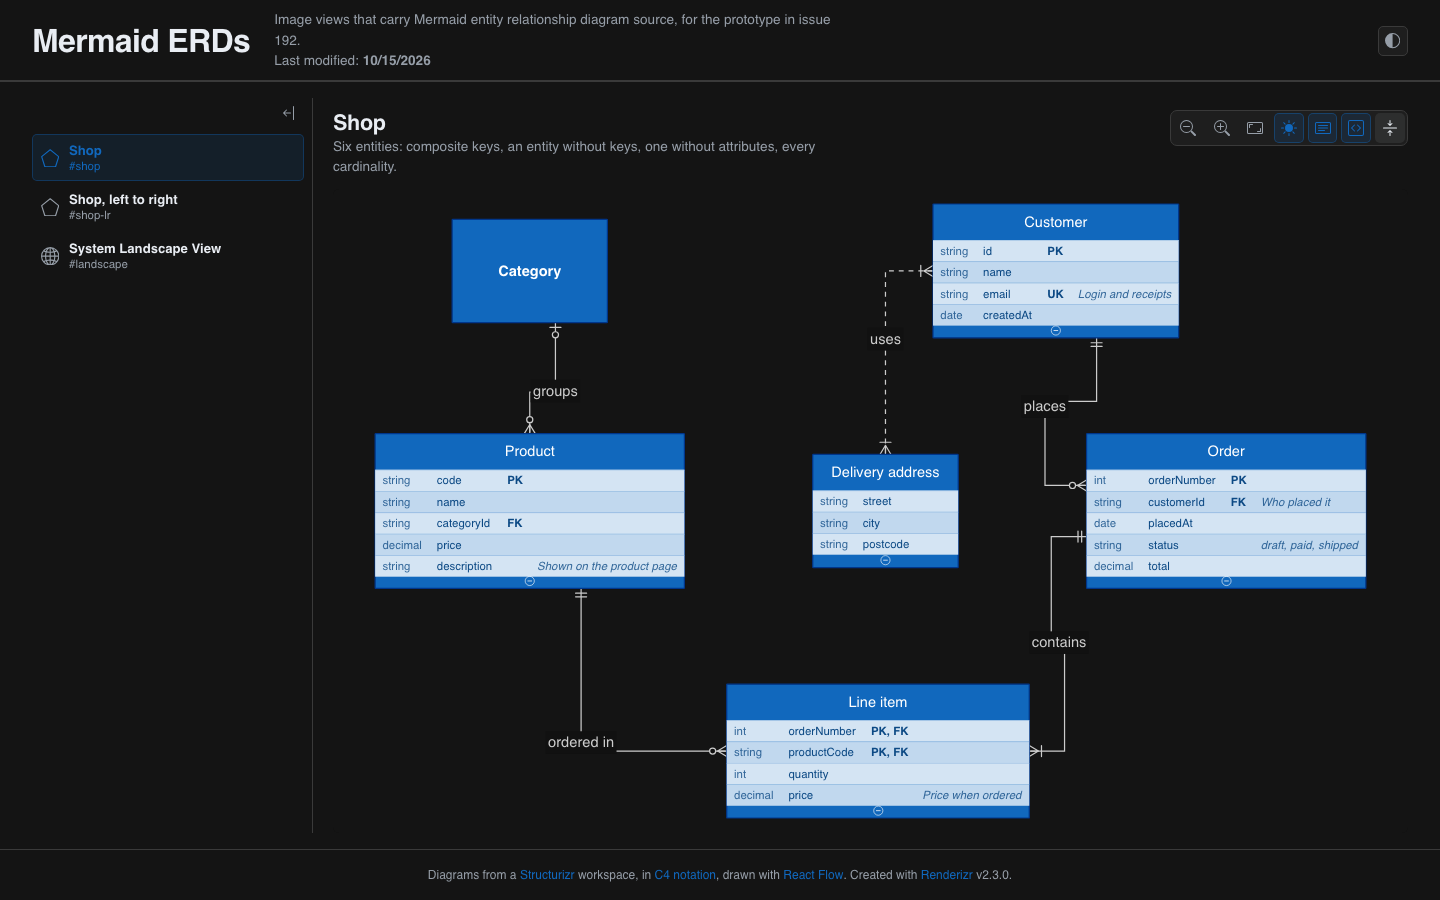
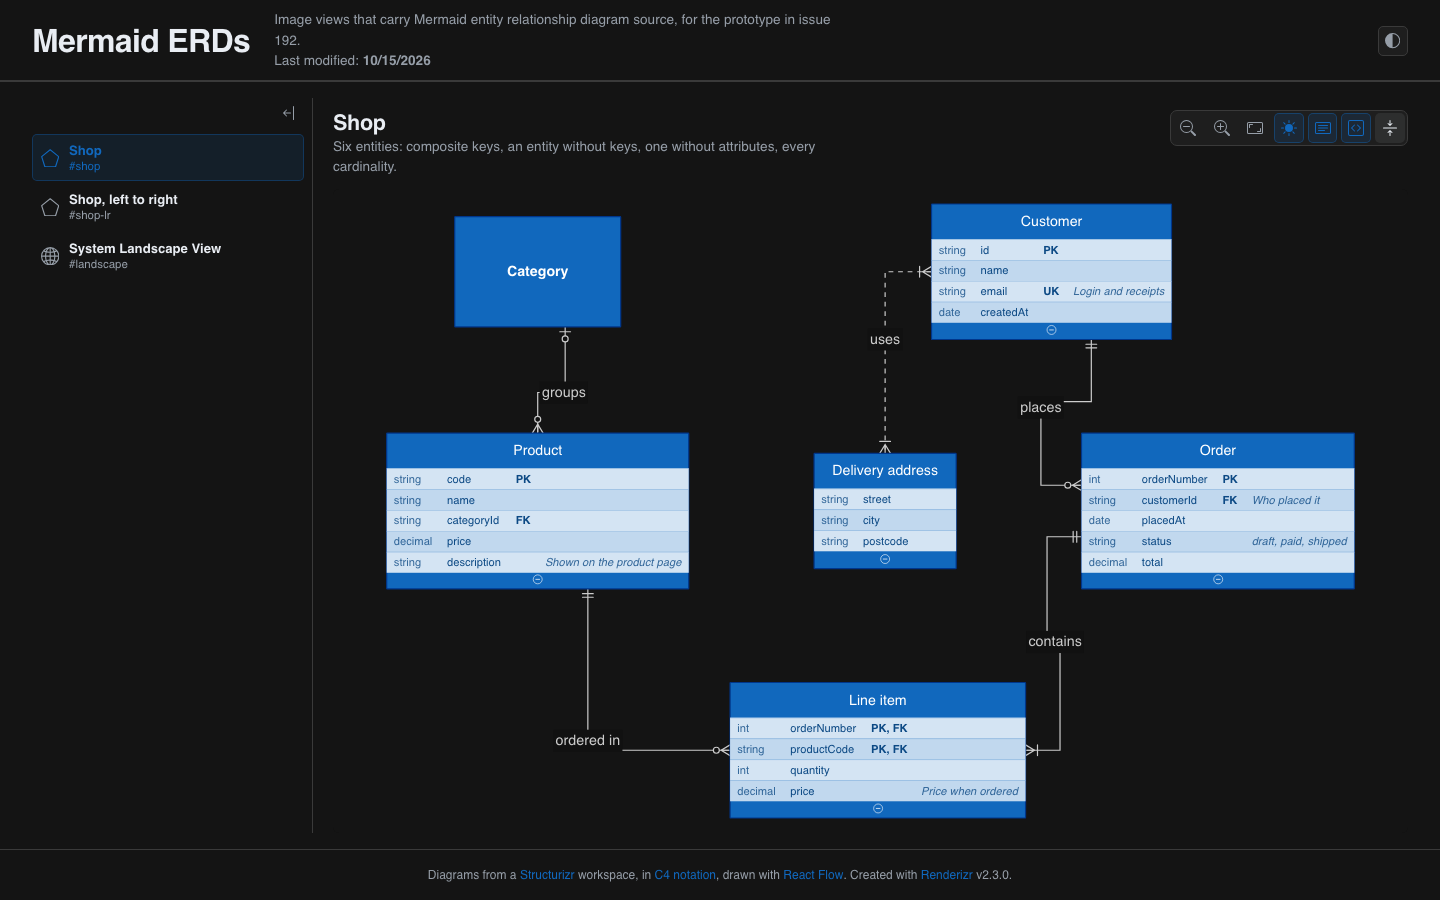
chore: pad the entity toggle clear of the last attribute row

diff --git a/src/engine/geometry/entity.ts b/src/engine/geometry/entity.ts
@@ -32,7 +32,7 @@ export type EntityLayout = {
 const CELL_PADDING = 12;
 const HEADER_PADDING = 15;
 /** The band at the bottom of an entity that holds its plus or minus toggle. */
-export const TOGGLE_ROOM = 24;
+export const TOGGLE_ROOM = 32;
 
 const isKey = (attribute: Attribute) =>
     attribute.keys.includes("PK") || attribute.keys.includes("FK");

diff --git a/src/engine/react-flow/island.tsx b/src/engine/react-flow/island.tsx
@@ -407,7 +407,7 @@ function EntityBody({ data }: { data: ElementBox }) {
             style={{
                 position: "absolute",
                 left: "50%",
-                bottom: 4,
+                bottom: 8,
                 transform: "translateX(-50%)",
                 width: 16,
                 height: 16,
